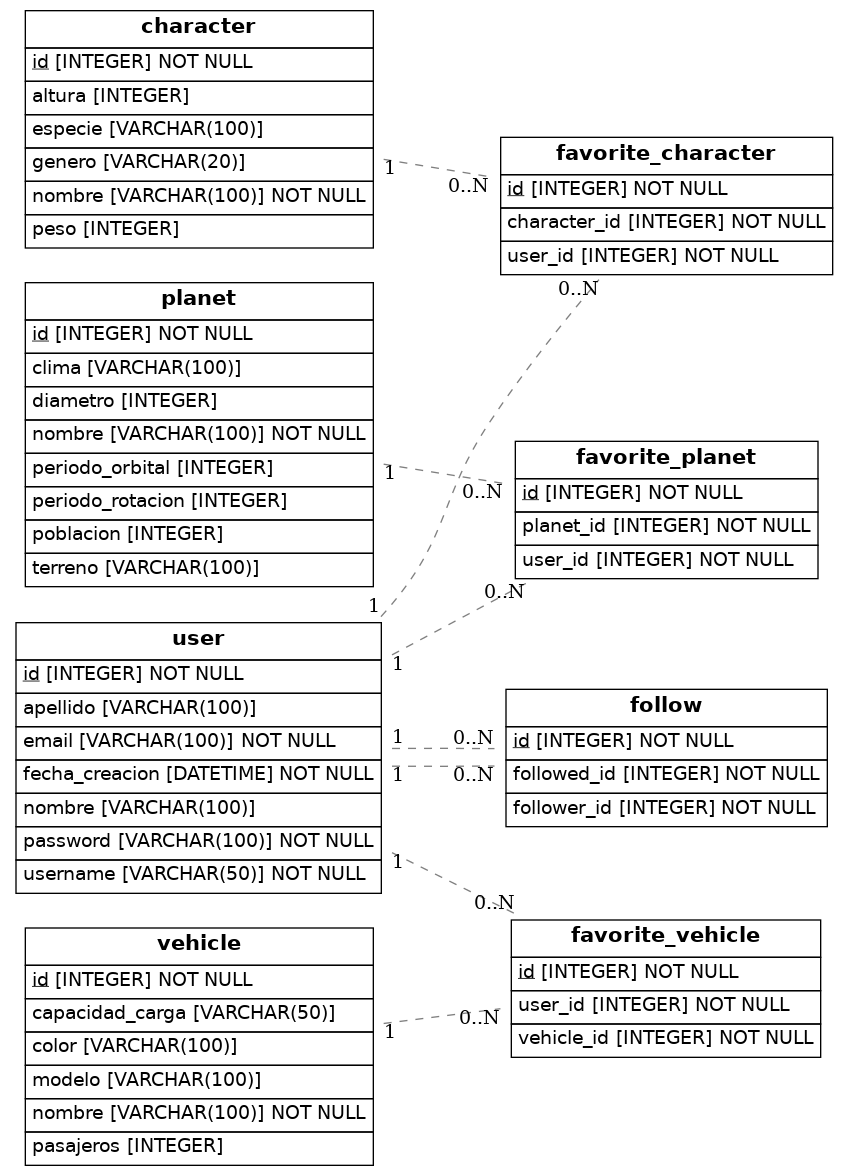
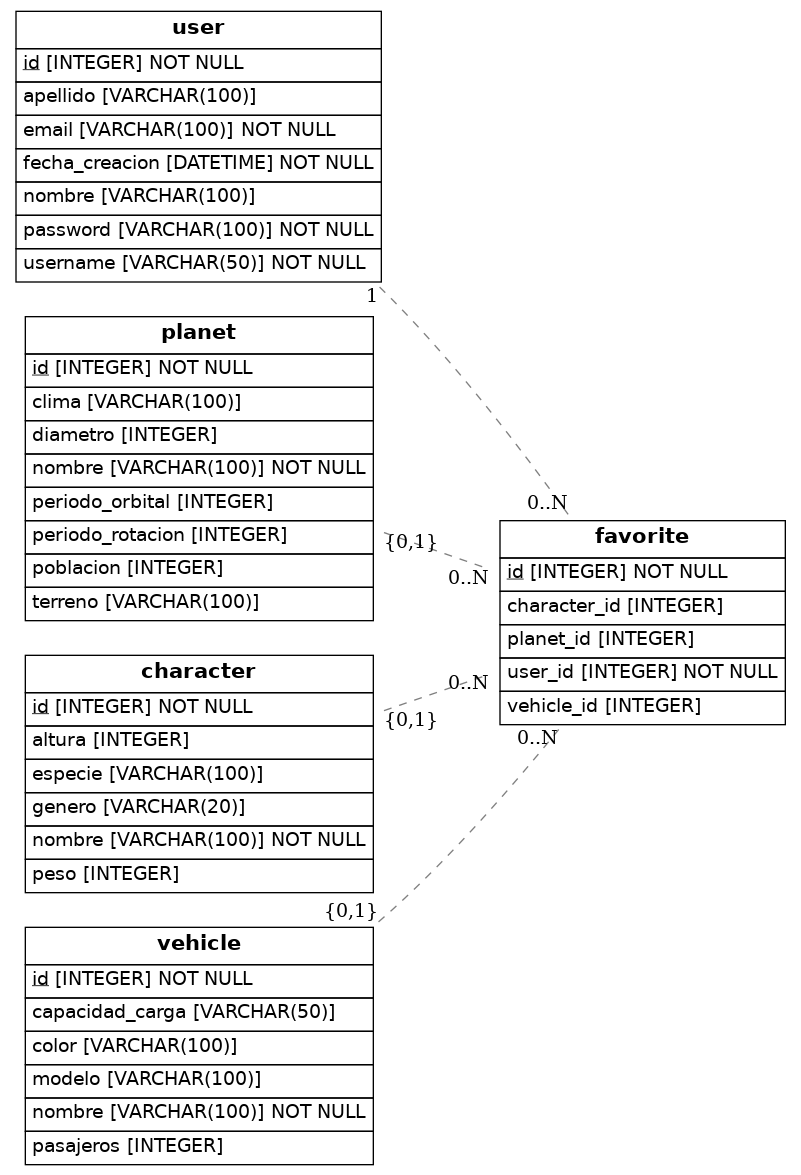
se elimino la tabla de follower y se simplificaron las relaciones de favoritos del user

diff --git a/src/models.py b/src/models.py
@@ -17,20 +17,7 @@ class User(Base):
     apellido = Column(String(100))
     fecha_creacion = Column(DateTime, nullable=False)
     
-    favoritos_planetas = relationship('FavoritePlanet', backref='user')
-    favoritos_personajes = relationship('FavoriteCharacter', backref='user')
-    favoritos_vehiculos = relationship('FavoriteVehicle', backref='user')
-    
-    seguidores = relationship(
-        'Follow', 
-        foreign_keys='Follow.followed_id',
-        backref='followee'
-    )
-    seguidos = relationship(
-        'Follow', 
-        foreign_keys='Follow.follower_id',
-        backref='follower'
-    )
+    favoritos = relationship('Favorite', backref='user')
 
 class Planet(Base):
     __tablename__ = 'planet'
@@ -43,7 +30,7 @@ class Planet(Base):
     periodo_orbital = Column(Integer)
     periodo_rotacion = Column(Integer)
 
-    favoritos = relationship('FavoritePlanet', backref='planet')
+    favoritos = relationship('Favorite', foreign_keys='Favorite.planet_id', backref='planet')
 
 class Character(Base):
     __tablename__ = 'character'
@@ -54,7 +41,7 @@ class Character(Base):
     genero = Column(String(20))
     especie = Column(String(100))
 
-    favoritos = relationship('FavoriteCharacter', backref='character')
+    favoritos = relationship('Favorite', foreign_keys='Favorite.character_id', backref='character')
 
 class Vehicle(Base):
     __tablename__ = 'vehicle'
@@ -65,31 +52,15 @@ class Vehicle(Base):
     pasajeros = Column(Integer)
     capacidad_carga = Column(String(50))
 
-    favoritos = relationship('FavoriteVehicle', backref='vehicle')
+    favoritos = relationship('Favorite', foreign_keys='Favorite.vehicle_id', backref='vehicle')
 
-class FavoritePlanet(Base):
-    __tablename__ = 'favorite_planet'
+class Favorite(Base):
+    __tablename__ = 'favorite'
     id = Column(Integer, primary_key=True)
     user_id = Column(Integer, ForeignKey('user.id'), nullable=False)
-    planet_id = Column(Integer, ForeignKey('planet.id'), nullable=False)
-
-class FavoriteCharacter(Base):
-    __tablename__ = 'favorite_character'
-    id = Column(Integer, primary_key=True)
-    user_id = Column(Integer, ForeignKey('user.id'), nullable=False)
-    character_id = Column(Integer, ForeignKey('character.id'), nullable=False)
-
-class FavoriteVehicle(Base):
-    __tablename__ = 'favorite_vehicle'
-    id = Column(Integer, primary_key=True)
-    user_id = Column(Integer, ForeignKey('user.id'), nullable=False)
-    vehicle_id = Column(Integer, ForeignKey('vehicle.id'), nullable=False)
-
-class Follow(Base):
-    __tablename__ = 'follow'
-    id = Column(Integer, primary_key=True)
-    follower_id = Column(Integer, ForeignKey('user.id'), nullable=False)
-    followed_id = Column(Integer, ForeignKey('user.id'), nullable=False)
+    planet_id = Column(Integer, ForeignKey('planet.id'))
+    character_id = Column(Integer, ForeignKey('character.id'))
+    vehicle_id = Column(Integer, ForeignKey('vehicle.id'))
 
     def to_dict(self):
         return {}
